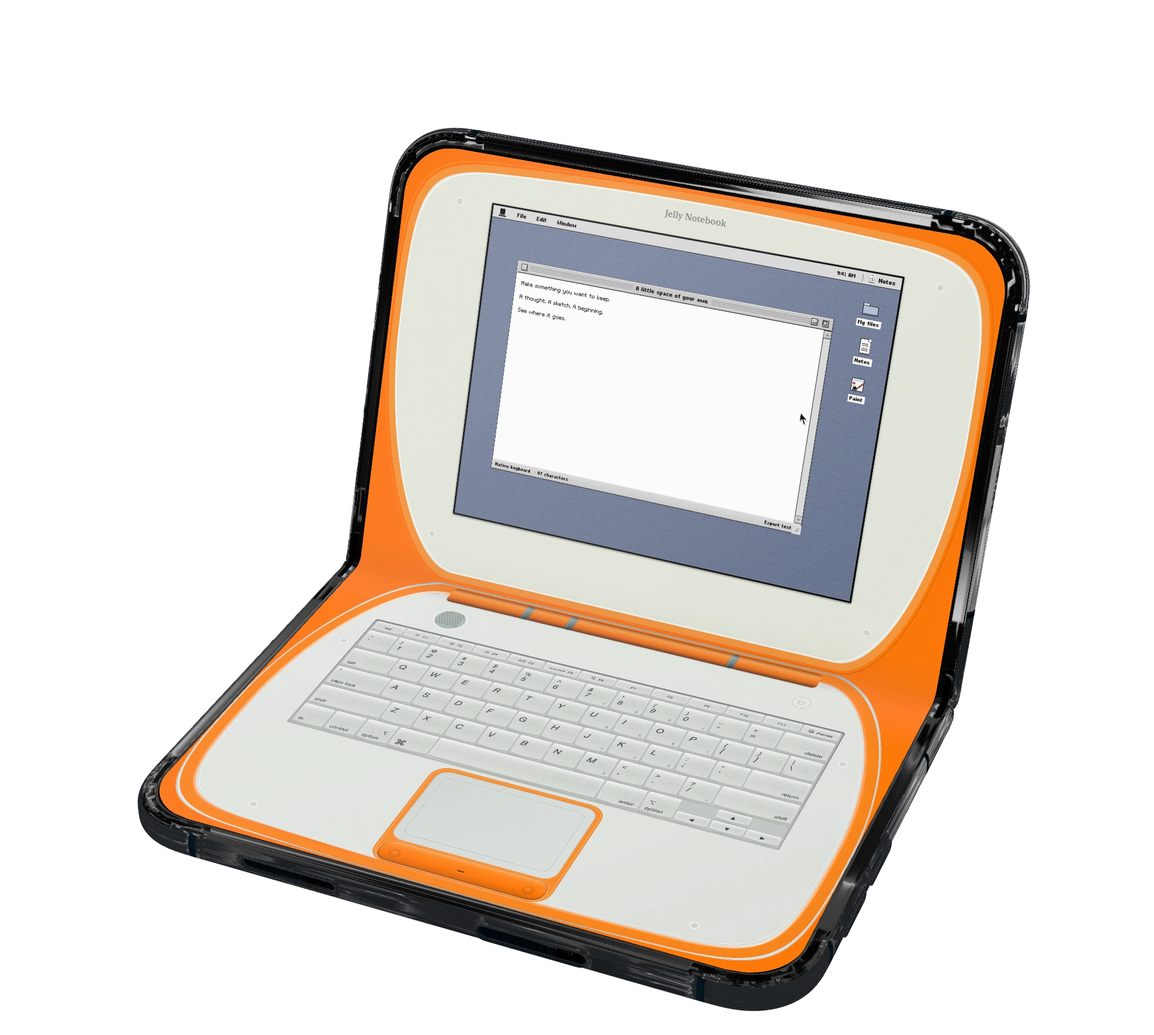
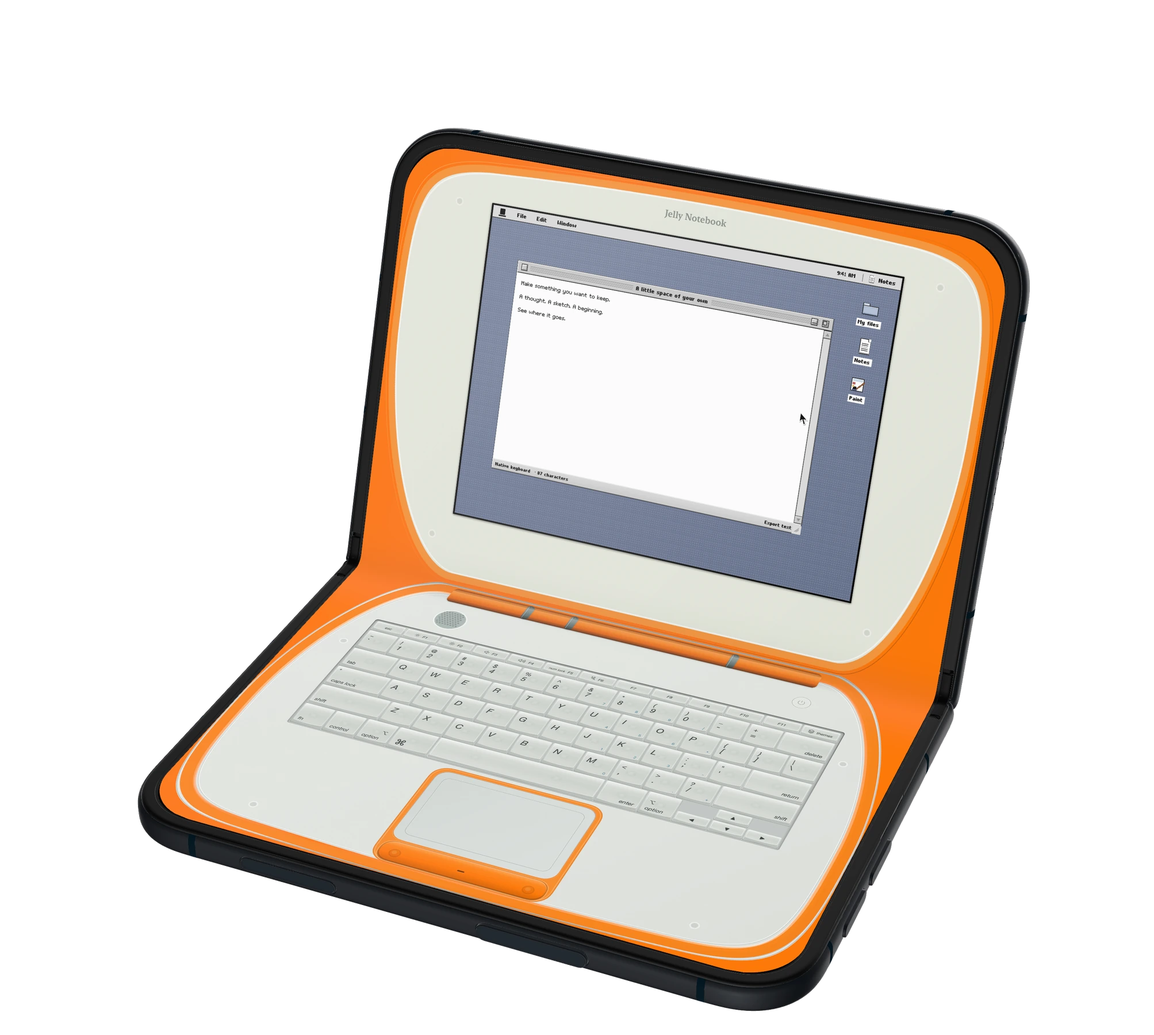
Smooth Duo render edges and add silver finish
Correct independent mesh position, normal and UV indexes; refine triangles around the bend and soften shell reflections. Add black/silver controls beside the hero footer label, front and rear assets for both finishes, a brief five-look introduction, and a shorter regular cycle.

diff --git a/index.html b/index.html
@@ -8,7 +8,7 @@
 <header class="site-header"><div class="wrap nav-inner"><a class="brand" href="./" aria-label="lil laptop home"><span class="nav-icon" aria-hidden="true"><span class="app-icon-shell"><img src="icon-180.png" width="28" height="28" alt="" draggable="false"></span></span><span class="wordmark">lil laptop</span></a><nav aria-label="Main"><a href="#collection">the laptops</a><a href="#customize">make it yours</a><div class="nav-download"><a class="app-store-badge" href="https://apps.apple.com/us/app/lil-laptop/id6824160964" aria-label="Download lil laptop on the App Store"><svg aria-hidden="true" focusable="false" xmlns="http://www.w3.org/2000/svg" width="119.66407" height="40" viewBox="0 0 119.66407 40"><g><g><g><path d="M110.13477,0H9.53468c-.3667,0-.729,0-1.09473.002-.30615.002-.60986.00781-.91895.0127A13.21476,13.21476,0,0,0,5.5171.19141a6.66509,6.66509,0,0,0-1.90088.627A6.43779,6.43779,0,0,0,1.99757,1.99707,6.25844,6.25844,0,0,0,.81935,3.61816a6.60119,6.60119,0,0,0-.625,1.90332,12.993,12.993,0,0,0-.1792,2.002C.00587,7.83008.00489,8.1377,0,8.44434V31.5586c.00489.3105.00587.6113.01515.9219a12.99232,12.99232,0,0,0,.1792,2.0019,6.58756,6.58756,0,0,0,.625,1.9043A6.20778,6.20778,0,0,0,1.99757,38.001a6.27445,6.27445,0,0,0,1.61865,1.1787,6.70082,6.70082,0,0,0,1.90088.6308,13.45514,13.45514,0,0,0,2.0039.1768c.30909.0068.6128.0107.91895.0107C8.80567,40,9.168,40,9.53468,40H110.13477c.3594,0,.7246,0,1.084-.002.3047,0,.6172-.0039.9219-.0107a13.279,13.279,0,0,0,2-.1768,6.80432,6.80432,0,0,0,1.9082-.6308,6.27742,6.27742,0,0,0,1.6172-1.1787,6.39482,6.39482,0,0,0,1.1816-1.6143,6.60413,6.60413,0,0,0,.6191-1.9043,13.50643,13.50643,0,0,0,.1856-2.0019c.0039-.3106.0039-.6114.0039-.9219.0078-.3633.0078-.7246.0078-1.0938V9.53613c0-.36621,0-.72949-.0078-1.09179,0-.30664,0-.61426-.0039-.9209a13.5071,13.5071,0,0,0-.1856-2.002,6.6177,6.6177,0,0,0-.6191-1.90332,6.46619,6.46619,0,0,0-2.7988-2.7998,6.76754,6.76754,0,0,0-1.9082-.627,13.04394,13.04394,0,0,0-2-.17676c-.3047-.00488-.6172-.01074-.9219-.01269-.3594-.002-.7246-.002-1.084-.002Z" style="fill: #a6a6a6"/><path d="M8.44483,39.125c-.30468,0-.602-.0039-.90429-.0107a12.68714,12.68714,0,0,1-1.86914-.1631,5.88381,5.88381,0,0,1-1.65674-.5479,5.40573,5.40573,0,0,1-1.397-1.0166,5.32082,5.32082,0,0,1-1.02051-1.3965,5.72186,5.72186,0,0,1-.543-1.6572,12.41351,12.41351,0,0,1-.1665-1.875c-.00634-.2109-.01464-.9131-.01464-.9131V8.44434S.88185,7.75293.8877,7.5498a12.37039,12.37039,0,0,1,.16553-1.87207,5.7555,5.7555,0,0,1,.54346-1.6621A5.37349,5.37349,0,0,1,2.61183,2.61768,5.56543,5.56543,0,0,1,4.01417,1.59521a5.82309,5.82309,0,0,1,1.65332-.54394A12.58589,12.58589,0,0,1,7.543.88721L8.44532.875H111.21387l.9131.0127a12.38493,12.38493,0,0,1,1.8584.16259,5.93833,5.93833,0,0,1,1.6709.54785,5.59374,5.59374,0,0,1,2.415,2.41993,5.76267,5.76267,0,0,1,.5352,1.64892,12.995,12.995,0,0,1,.1738,1.88721c.0029.2832.0029.5874.0029.89014.0079.375.0079.73193.0079,1.09179V30.4648c0,.3633,0,.7178-.0079,1.0752,0,.3252,0,.6231-.0039.9297a12.73126,12.73126,0,0,1-.1709,1.8535,5.739,5.739,0,0,1-.54,1.67,5.48029,5.48029,0,0,1-1.0156,1.3857,5.4129,5.4129,0,0,1-1.3994,1.0225,5.86168,5.86168,0,0,1-1.668.5498,12.54218,12.54218,0,0,1-1.8692.1631c-.2929.0068-.5996.0107-.8974.0107l-1.084.002Z"/></g><g data-name="&lt;Group&gt;"><g data-name="&lt;Group&gt;"><g data-name="&lt;Group&gt;"><path data-name="&lt;Path&gt;" d="M24.76888,20.30068a4.94881,4.94881,0,0,1,2.35656-4.15206,5.06566,5.06566,0,0,0-3.99116-2.15768c-1.67924-.17626-3.30719,1.00483-4.1629,1.00483-.87227,0-2.18977-.98733-3.6085-.95814a5.31529,5.31529,0,0,0-4.47292,2.72787c-1.934,3.34842-.49141,8.26947,1.3612,10.97608.9269,1.32535,2.01018,2.8058,3.42763,2.7533,1.38706-.05753,1.9051-.88448,3.5794-.88448,1.65876,0,2.14479.88448,3.591.8511,1.48838-.02416,2.42613-1.33124,3.32051-2.66914a10.962,10.962,0,0,0,1.51842-3.09251A4.78205,4.78205,0,0,1,24.76888,20.30068Z" style="fill: #fff"/><path data-name="&lt;Path&gt;" d="M22.03725,12.21089a4.87248,4.87248,0,0,0,1.11452-3.49062,4.95746,4.95746,0,0,0-3.20758,1.65961,4.63634,4.63634,0,0,0-1.14371,3.36139A4.09905,4.09905,0,0,0,22.03725,12.21089Z" style="fill: #fff"/></g></g><g><path d="M42.30227,27.13965h-4.7334l-1.13672,3.35645H34.42727l4.4834-12.418h2.083l4.4834,12.418H43.438ZM38.0591,25.59082h3.752l-1.84961-5.44727h-.05176Z" style="fill: #fff"/><path d="M55.15969,25.96973c0,2.81348-1.50586,4.62109-3.77832,4.62109a3.0693,3.0693,0,0,1-2.84863-1.584h-.043v4.48438h-1.8584V21.44238H48.4302v1.50586h.03418a3.21162,3.21162,0,0,1,2.88281-1.60059C53.645,21.34766,55.15969,23.16406,55.15969,25.96973Zm-1.91016,0c0-1.833-.94727-3.03809-2.39258-3.03809-1.41992,0-2.375,1.23047-2.375,3.03809,0,1.82422.95508,3.0459,2.375,3.0459C52.30227,29.01563,53.24953,27.81934,53.24953,25.96973Z" style="fill: #fff"/><path d="M65.12453,25.96973c0,2.81348-1.50586,4.62109-3.77832,4.62109a3.0693,3.0693,0,0,1-2.84863-1.584h-.043v4.48438h-1.8584V21.44238H58.395v1.50586h.03418A3.21162,3.21162,0,0,1,61.312,21.34766C63.60988,21.34766,65.12453,23.16406,65.12453,25.96973Zm-1.91016,0c0-1.833-.94727-3.03809-2.39258-3.03809-1.41992,0-2.375,1.23047-2.375,3.03809,0,1.82422.95508,3.0459,2.375,3.0459C62.26711,29.01563,63.21438,27.81934,63.21438,25.96973Z" style="fill: #fff"/><path d="M71.71047,27.03613c.1377,1.23145,1.334,2.04,2.96875,2.04,1.56641,0,2.69336-.80859,2.69336-1.91895,0-.96387-.67969-1.541-2.28906-1.93652l-1.60937-.3877c-2.28027-.55078-3.33887-1.61719-3.33887-3.34766,0-2.14258,1.86719-3.61426,4.51855-3.61426,2.624,0,4.42285,1.47168,4.4834,3.61426h-1.876c-.1123-1.23926-1.13672-1.9873-2.63379-1.9873s-2.52148.75684-2.52148,1.8584c0,.87793.6543,1.39453,2.25488,1.79l1.36816.33594c2.54785.60254,3.60645,1.626,3.60645,3.44238,0,2.32324-1.85059,3.77832-4.79395,3.77832-2.75391,0-4.61328-1.4209-4.7334-3.667Z" style="fill: #fff"/><path d="M83.34621,19.2998v2.14258h1.72168v1.47168H83.34621v4.99121c0,.77539.34473,1.13672,1.10156,1.13672a5.80752,5.80752,0,0,0,.61133-.043v1.46289a5.10351,5.10351,0,0,1-1.03223.08594c-1.833,0-2.54785-.68848-2.54785-2.44434V22.91406H80.16262V21.44238H81.479V19.2998Z" style="fill: #fff"/><path d="M86.065,25.96973c0-2.84863,1.67773-4.63867,4.29395-4.63867,2.625,0,4.29492,1.79,4.29492,4.63867,0,2.85645-1.66113,4.63867-4.29492,4.63867C87.72609,30.6084,86.065,28.82617,86.065,25.96973Zm6.69531,0c0-1.9541-.89551-3.10742-2.40137-3.10742s-2.40039,1.16211-2.40039,3.10742c0,1.96191.89453,3.10645,2.40039,3.10645S92.76027,27.93164,92.76027,25.96973Z" style="fill: #fff"/><path d="M96.18606,21.44238h1.77246v1.541h.043a2.1594,2.1594,0,0,1,2.17773-1.63574,2.86616,2.86616,0,0,1,.63672.06934v1.73828a2.59794,2.59794,0,0,0-.835-.1123,1.87264,1.87264,0,0,0-1.93652,2.083v5.37012h-1.8584Z" style="fill: #fff"/><path d="M109.3843,27.83691c-.25,1.64355-1.85059,2.77148-3.89844,2.77148-2.63379,0-4.26855-1.76465-4.26855-4.5957,0-2.83984,1.64355-4.68164,4.19043-4.68164,2.50488,0,4.08008,1.7207,4.08008,4.46582v.63672h-6.39453v.1123a2.358,2.358,0,0,0,2.43555,2.56445,2.04834,2.04834,0,0,0,2.09082-1.27344Zm-6.28223-2.70215h4.52637a2.1773,2.1773,0,0,0-2.2207-2.29785A2.292,2.292,0,0,0,103.10207,25.13477Z" style="fill: #fff"/></g></g></g><g data-name="&lt;Group&gt;"><g><path d="M37.82619,8.731a2.63964,2.63964,0,0,1,2.80762,2.96484c0,1.90625-1.03027,3.002-2.80762,3.002H35.67092V8.731Zm-1.22852,5.123h1.125a1.87588,1.87588,0,0,0,1.96777-2.146,1.881,1.881,0,0,0-1.96777-2.13379h-1.125Z" style="fill: #fff"/><path d="M41.68068,12.44434a2.13323,2.13323,0,1,1,4.24707,0,2.13358,2.13358,0,1,1-4.24707,0Zm3.333,0c0-.97607-.43848-1.54687-1.208-1.54687-.77246,0-1.207.5708-1.207,1.54688,0,.98389.43457,1.55029,1.207,1.55029C44.57522,13.99463,45.01369,13.42432,45.01369,12.44434Z" style="fill: #fff"/><path d="M51.57326,14.69775h-.92187l-.93066-3.31641h-.07031l-.92676,3.31641h-.91309l-1.24121-4.50293h.90137l.80664,3.436h.06641l.92578-3.436h.85254l.92578,3.436h.07031l.80273-3.436h.88867Z" style="fill: #fff"/><path d="M53.85354,10.19482H54.709v.71533h.06641a1.348,1.348,0,0,1,1.34375-.80225,1.46456,1.46456,0,0,1,1.55859,1.6748v2.915h-.88867V12.00586c0-.72363-.31445-1.0835-.97168-1.0835a1.03294,1.03294,0,0,0-1.0752,1.14111v2.63428h-.88867Z" style="fill: #fff"/><path d="M59.09377,8.437h.88867v6.26074h-.88867Z" style="fill: #fff"/><path d="M61.21779,12.44434a2.13346,2.13346,0,1,1,4.24756,0,2.1338,2.1338,0,1,1-4.24756,0Zm3.333,0c0-.97607-.43848-1.54687-1.208-1.54687-.77246,0-1.207.5708-1.207,1.54688,0,.98389.43457,1.55029,1.207,1.55029C64.11232,13.99463,64.5508,13.42432,64.5508,12.44434Z" style="fill: #fff"/><path d="M66.4009,13.42432c0-.81055.60352-1.27783,1.6748-1.34424l1.21973-.07031v-.38867c0-.47559-.31445-.74414-.92187-.74414-.49609,0-.83984.18213-.93848.50049h-.86035c.09082-.77344.81836-1.26953,1.83984-1.26953,1.12891,0,1.76563.562,1.76563,1.51318v3.07666h-.85547v-.63281h-.07031a1.515,1.515,0,0,1-1.35254.707A1.36026,1.36026,0,0,1,66.4009,13.42432Zm2.89453-.38477v-.37646l-1.09961.07031c-.62012.0415-.90137.25244-.90137.64941,0,.40527.35156.64111.835.64111A1.0615,1.0615,0,0,0,69.29543,13.03955Z" style="fill: #fff"/><path d="M71.34816,12.44434c0-1.42285.73145-2.32422,1.86914-2.32422a1.484,1.484,0,0,1,1.38086.79h.06641V8.437h.88867v6.26074h-.85156v-.71143h-.07031a1.56284,1.56284,0,0,1-1.41406.78564C72.0718,14.772,71.34816,13.87061,71.34816,12.44434Zm.918,0c0,.95508.4502,1.52979,1.20313,1.52979.749,0,1.21191-.583,1.21191-1.52588,0-.93848-.46777-1.52979-1.21191-1.52979C72.72121,10.91846,72.26613,11.49707,72.26613,12.44434Z" style="fill: #fff"/><path d="M79.23,12.44434a2.13323,2.13323,0,1,1,4.24707,0,2.13358,2.13358,0,1,1-4.24707,0Zm3.333,0c0-.97607-.43848-1.54687-1.208-1.54687-.77246,0-1.207.5708-1.207,1.54688,0,.98389.43457,1.55029,1.207,1.55029C82.12453,13.99463,82.563,13.42432,82.563,12.44434Z" style="fill: #fff"/><path d="M84.66945,10.19482h.85547v.71533h.06641a1.348,1.348,0,0,1,1.34375-.80225,1.46456,1.46456,0,0,1,1.55859,1.6748v2.915H87.605V12.00586c0-.72363-.31445-1.0835-.97168-1.0835a1.03294,1.03294,0,0,0-1.0752,1.14111v2.63428h-.88867Z" style="fill: #fff"/><path d="M93.51516,9.07373v1.1416h.97559v.74854h-.97559V13.2793c0,.47168.19434.67822.63672.67822a2.96657,2.96657,0,0,0,.33887-.02051v.74023a2.9155,2.9155,0,0,1-.4834.04541c-.98828,0-1.38184-.34766-1.38184-1.21582v-2.543h-.71484v-.74854h.71484V9.07373Z" style="fill: #fff"/><path d="M95.70461,8.437h.88086v2.48145h.07031a1.3856,1.3856,0,0,1,1.373-.80664,1.48339,1.48339,0,0,1,1.55078,1.67871v2.90723H98.69v-2.688c0-.71924-.335-1.0835-.96289-1.0835a1.05194,1.05194,0,0,0-1.13379,1.1416v2.62988h-.88867Z" style="fill: #fff"/><path d="M104.76125,13.48193a1.828,1.828,0,0,1-1.95117,1.30273A2.04531,2.04531,0,0,1,100.73,12.46045a2.07685,2.07685,0,0,1,2.07617-2.35254c1.25293,0,2.00879.856,2.00879,2.27V12.688h-3.17969v.0498a1.1902,1.1902,0,0,0,1.19922,1.29,1.07934,1.07934,0,0,0,1.07129-.5459Zm-3.126-1.45117h2.27441a1.08647,1.08647,0,0,0-1.1084-1.1665A1.15162,1.15162,0,0,0,101.63527,12.03076Z" style="fill: #fff"/></g></g></g></svg></a></div></nav></div></header>
 <main id="main">
 <section class="hero"><div class="wrap hero-grid"><div class="hero-copy"><span class="hero-app-icon app-icon-shell"><img src="icon-180.png" width="84" height="84" alt="lil laptop app icon" draggable="false"></span><h1>old soul.<br><em>new screen.</em></h1><p class="hero-intro">Your phone, with a whole new alter ego. Turn your Duo into a tiny computer for little thoughts, creative detours, and a desktop that feels like you.</p><div class="hero-actions"><a class="button button-dark" href="#watch">watch a lil film <span aria-hidden="true">▶</span></a><a class="text-link" href="#customize">make it yours <span aria-hidden="true">↓</span></a></div><p class="hero-note">No account. No ads. Just your own little world.</p></div>
-<div class="hero-art"><div class="hero-orbit" aria-hidden="true"></div><div class="hero-orbit second" aria-hidden="true"></div><div class="hero-glow" aria-hidden="true"></div><div class="hero-float"><div class="tilt"><button class="render-surface hero-device-button" type="button" id="hero-device-button" aria-label="Spin to see the back of the Blueberry Jelly Notebook" aria-pressed="false" aria-describedby="hero-interaction-hint" data-side="open"><img class="hero-device" src="hero-blue-open.webp" width="1100" height="1089" alt="Blueberry Jelly Notebook on iPhone Duo in the angled open pose, with a colour-filled interior surround."><svg class="hero-lighting" viewBox="0 0 1100 1089" aria-hidden="true"><defs><linearGradient id="hero-screen-reflection" x1="0" y1="0" x2="1" y2="1"><stop stop-color="#fff" stop-opacity=".12"/><stop offset=".55" stop-color="#fff" stop-opacity="0"/><stop offset="1" stop-color="#11182d" stop-opacity=".1"/></linearGradient><linearGradient id="hero-hinge-shadow" x1="0" y1="0" x2="0" y2="1"><stop stop-color="#0c1422" stop-opacity=".03"/><stop offset=".55" stop-color="#0c1422" stop-opacity=".16"/><stop offset="1" stop-color="#fff" stop-opacity=".04"/></linearGradient></defs><polygon points="431.99,126.77 932.18,218.74 872.62,582.56 387.93,473.47" fill="url(#hero-screen-reflection)"/><polygon points="275.93,522.84 985.09,688.68 976.33,715.56 265.07,546.99" fill="url(#hero-hinge-shadow)"/></svg><svg class="hero-deck-stickers" viewBox="0 0 1100 1089" aria-hidden="true"><image data-deck-sticker="0" href="sticker-circuit-club-06.webp" width="100" height="100" transform="matrix(0.6137,0.16134,-0.33299,0.38411,199.375,749.6)"/><image data-deck-sticker="1" href="sticker-circuit-club-03.webp" width="100" height="100" transform="matrix(0.64476,0.17021,-0.25263,0.40521,657.373,879.663)"/><image data-deck-sticker="2" href="sticker-bow.webp" width="100" height="100" transform="matrix(0.51514,0.13161,-0.18903,0.31266,735.29,823.997)"/></svg></button></div></div><div class="hero-sticker-cloud" aria-hidden="true"><span class="cloud-sticker cloud-sticker-0" data-cloud-sticker="0"><img src="sticker-bow.webp" alt="" width="120" height="120"></span><span class="cloud-sticker cloud-sticker-1" data-cloud-sticker="1"><img src="sticker-circuit-club-03.webp" alt="" width="120" height="120"></span><span class="cloud-sticker cloud-sticker-2" data-cloud-sticker="2"><img src="sticker-circuit-club-07.webp" alt="" width="120" height="120"></span><span class="cloud-sticker cloud-sticker-3" data-cloud-sticker="3"><img src="sticker-circuit-club-08.webp" alt="" width="120" height="120"></span><span class="cloud-sticker cloud-sticker-4" data-cloud-sticker="4"><img src="sticker-flower.webp" alt="" width="120" height="120"></span><span class="cloud-sticker cloud-sticker-5" data-cloud-sticker="5"><img src="sticker-circuit-club-02.webp" alt="" width="120" height="120"></span></div><div class="hero-render-caption"><span id="hero-model-name">Jelly Notebook / Blueberry</span></div><p class="hero-art-note" id="hero-interaction-hint">click to see the other side ↻ <span class="hover-hint">hover to keep this one.</span></p></div></div><div class="hero-foot wrap"><span class="hero-foot-caption">MADE FOR IPHONE DUO</span><span class="hero-foot-star" aria-hidden="true">✳</span></div></section>
+<div class="hero-art"><div class="hero-orbit" aria-hidden="true"></div><div class="hero-orbit second" aria-hidden="true"></div><div class="hero-glow" aria-hidden="true"></div><div class="hero-float"><div class="tilt"><button class="render-surface hero-device-button" type="button" id="hero-device-button" aria-label="Spin to see the back of the Blueberry Jelly Notebook" aria-pressed="false" aria-describedby="hero-interaction-hint" data-side="open"><img class="hero-device" src="hero-blue-open.webp" width="1100" height="1089" alt="Blueberry Jelly Notebook on iPhone Duo in the angled open pose, with a colour-filled interior surround."><svg class="hero-lighting" viewBox="0 0 1100 1089" aria-hidden="true"><defs><linearGradient id="hero-screen-reflection" x1="0" y1="0" x2="1" y2="1"><stop stop-color="#fff" stop-opacity=".12"/><stop offset=".55" stop-color="#fff" stop-opacity="0"/><stop offset="1" stop-color="#11182d" stop-opacity=".1"/></linearGradient><linearGradient id="hero-hinge-shadow" x1="0" y1="0" x2="0" y2="1"><stop stop-color="#0c1422" stop-opacity=".03"/><stop offset=".55" stop-color="#0c1422" stop-opacity=".16"/><stop offset="1" stop-color="#fff" stop-opacity=".04"/></linearGradient></defs><polygon points="431.99,126.77 932.18,218.74 872.62,582.56 387.93,473.47" fill="url(#hero-screen-reflection)"/><polygon points="275.93,522.84 985.09,688.68 976.33,715.56 265.07,546.99" fill="url(#hero-hinge-shadow)"/></svg><svg class="hero-deck-stickers" viewBox="0 0 1100 1089" aria-hidden="true"><image data-deck-sticker="0" href="sticker-circuit-club-06.webp" width="100" height="100" transform="matrix(0.6137,0.16134,-0.33299,0.38411,199.375,749.6)"/><image data-deck-sticker="1" href="sticker-circuit-club-03.webp" width="100" height="100" transform="matrix(0.64476,0.17021,-0.25263,0.40521,657.373,879.663)"/><image data-deck-sticker="2" href="sticker-bow.webp" width="100" height="100" transform="matrix(0.51514,0.13161,-0.18903,0.31266,735.29,823.997)"/></svg></button></div></div><div class="hero-sticker-cloud" aria-hidden="true"><span class="cloud-sticker cloud-sticker-0" data-cloud-sticker="0"><img src="sticker-bow.webp" alt="" width="120" height="120"></span><span class="cloud-sticker cloud-sticker-1" data-cloud-sticker="1"><img src="sticker-circuit-club-03.webp" alt="" width="120" height="120"></span><span class="cloud-sticker cloud-sticker-2" data-cloud-sticker="2"><img src="sticker-circuit-club-07.webp" alt="" width="120" height="120"></span><span class="cloud-sticker cloud-sticker-3" data-cloud-sticker="3"><img src="sticker-circuit-club-08.webp" alt="" width="120" height="120"></span><span class="cloud-sticker cloud-sticker-4" data-cloud-sticker="4"><img src="sticker-flower.webp" alt="" width="120" height="120"></span><span class="cloud-sticker cloud-sticker-5" data-cloud-sticker="5"><img src="sticker-circuit-club-02.webp" alt="" width="120" height="120"></span></div><div class="hero-render-caption"><span id="hero-model-name">Jelly Notebook / Blueberry</span></div><p class="hero-art-note" id="hero-interaction-hint">click to see the other side ↻ <span class="hover-hint">hover to keep this one.</span></p></div></div><div class="hero-foot wrap"><div class="hero-foot-caption"><span>MADE FOR IPHONE DUO</span><div class="duo-finishes" role="group" aria-label="iPhone Duo device finish"><button type="button" data-duo-finish="black" aria-pressed="true" aria-label="Black iPhone Duo" title="Black"><span class="finish-dot finish-black"></span></button><button type="button" data-duo-finish="silver" aria-pressed="false" aria-label="Silver iPhone Duo" title="Silver"><span class="finish-dot finish-silver"></span></button></div></div><span class="hero-foot-star" aria-hidden="true">✳</span></div></section>
 
 <section class="desktop-section section-space" id="desktops"><div class="wrap desktop-grid"><div class="desktop-copy"><p class="eyebrow">SAME LITTLE WORLD. DIFFERENT ENERGY.</p><h2>Oh hello,<br><em>again.</em></h2><p>The outside doesn't have to match the inside. Mix retro desktops with any laptop, from monochrome charm to candy-coloured nostalgia.</p><p>Your notes, doodles and chosen music come with you.</p><div class="desktop-choices js-only" role="group" aria-label="Desktop interface"><button type="button" data-os="system7" aria-pressed="false">Monochrome</button><button type="button" data-os="macos86" aria-pressed="false">Platinum</button><button type="button" data-os="aqua101" aria-pressed="true">Aqua</button><button type="button" data-os="tiger104" aria-pressed="false">Brushed</button><button type="button" data-os="snow106" aria-pressed="false">Snow</button><button type="button" data-os="yosemite1010" aria-pressed="false">Flat</button><button type="button" data-os="sonoma14" aria-pressed="false">Modern</button></div></div><div class="desktop-showcase reveal"><div class="desktop-shell"><div class="desktop-window-bar"><span>● ● ●</span><span id="desktop-label">Aqua</span><span aria-hidden="true">↗</span></div><img id="desktop-image" src="desktop-aqua101.webp" width="760" height="507" loading="lazy" alt="Aqua desktop interface preview from lil laptop."></div><span class="desktop-spark" aria-hidden="true">✦</span><p>same little world. different energy.</p></div></div></section>
 <section class="collection section-space" id="collection"><div class="wrap"><div class="section-heading reveal"><div><p class="eyebrow">THE COLLECTION / A FEW VERY GOOD ERAS</p><h2>Which lil laptop<br><em>feels like you?</em></h2></div><p>A crush on the classics? A thing for jelly colours? There's a little laptop with your name on it.</p></div><div class="collection-controls"><p><span id="collection-caption">Pick your alter ego.</span></p><div class="side-toggle js-only" role="group" aria-label="Laptop preview side"><button type="button" data-side="front" aria-pressed="true">open <span aria-hidden="true">↗</span></button><button type="button" data-side="back" aria-pressed="false">flip to lids <span aria-hidden="true">↻</span></button></div><div class="collection-arrows js-only"><button type="button" data-gallery-step="-1" aria-label="Previous laptops">←</button><button type="button" data-gallery-step="1" aria-label="Next laptops">→</button></div></div><noscript><p>Enable JavaScript to turn the laptops around and decorate their lids.</p></noscript><div class="models-grid" tabindex="0" role="group" aria-label="Laptop collection. Scroll horizontally to explore the lil laptops."><article class="model-card" data-model="powerbook170">

diff --git a/site.js b/site.js
@@ -234,6 +234,8 @@ const models = [{"id":"powerbook170","name":"Power Notebook","description":"A tr
   const deckLayouts = [[[1.33257, 0.15715, -0.41974, 0.83388, 150.048, 747.356]], [[1.21418, 0.55567, -0.85289, 0.74353, 678.793, 857.279]], [[1.18913, 0.06161, -0.23191, 0.72726, 168.432, 723.095], [0.96033, 0.43762, -0.83238, 0.6305, 170.907, 787.325]], [[1.15795, 0.48914, -0.75404, 0.70528, 681.511, 838.569], [1.23453, 0.06965, -0.08422, 0.82279, 619.632, 942.954]], [[1.32041, 0.18609, -0.47164, 0.83003, 140.348, 750.682], [1.12384, 0.55845, -0.85187, 0.69379, 670.154, 881.828]], [[1.09999, 0.45313, -0.88951, 0.70588, 172.98, 743.15], [1.27596, 0.09748, -0.12626, 0.81982, 639.265, 860.14], [0.95171, 0.45132, -0.67307, 0.60288, 663.977, 934.311]]];
   const deckSlots=[...document.querySelectorAll('[data-deck-sticker]')];
   const cloudSlots=[...document.querySelectorAll('[data-cloud-sticker] img')];
+  let duoFinish='black';
+  let introActive=false,introTimer=null,introToken=0;
   let lookIndex=0, heroRear=false, lastDeckLayout=-1, lastCloudSlot=-1;
   let heroTimer=null, heroMotion=null, heroHover=false, heroFocus=false, transitionID=0;
   let cloudTimer=null;
@@ -268,18 +270,38 @@ const models = [{"id":"powerbook170","name":"Power Notebook","description":"A tr
     image.animate([{opacity:0,scale:'.65',rotate:'12deg'},{opacity:1,scale:'1.12',rotate:'-3deg',offset:.65},{opacity:1,scale:'1',rotate:'0deg'}],{duration:380,easing:'ease-out'});
     scheduleCloud();
   }
-  const paused = () => reduced.matches || document.hidden || heroHover || heroFocus || heroRear;
+  const blocked = () => reduced.matches || document.hidden || heroHover || heroFocus || heroRear;
+  const paused = () => blocked() || introActive;
+  function stopIntro(){introToken++;introActive=false;clearTimeout(introTimer);introTimer=null;heroButton.dataset.intro='complete';}
+  function heroSource(look,rear){return duoFinish==='silver'?`hero-${look.id}-silver-${rear?'rear':'open'}.webp`:(rear?look.rear:look.open);}
+  function startIntro(){
+    if(blocked()){scheduleHero();return;}
+    introActive=true;heroButton.dataset.intro='loading';const token=++introToken;
+    Promise.allSettled(looks.map(look=>{const image=new Image();image.src=heroSource(look,false);return image.decode();})).then(()=>{
+      if(token!==introToken)return;
+      if(blocked()){stopIntro();scheduleHero();return;}
+      heroButton.dataset.intro='cycling';let step=0;
+      const next=()=>{
+        if(token!==introToken)return;
+        if(blocked()){stopIntro();scheduleHero();return;}
+        lookIndex=(++step)%looks.length;paintHero();
+        if(step===looks.length){stopIntro();changeDeck();scheduleHero();return;}
+        introTimer=setTimeout(next,150);
+      };
+      introTimer=setTimeout(next,150);
+    });
+  }
   function paintHero() {
-    const look=looks[lookIndex];heroImage.src=heroRear?look.rear:look.open;
-    heroImage.alt=heroRear?`${look.name}, partly open with its back lid facing you on iPhone Duo.`:`${look.name} on iPhone Duo in the angled open pose, with stickers around its trackpad.`;
-    heroLabel.textContent=look.name;heroButton.dataset.look=look.id;
+    const look=looks[lookIndex];heroImage.src=heroSource(look,heroRear);
+    heroImage.alt=heroRear?`${look.name}, partly open with its back lid facing you on ${duoFinish} iPhone Duo.`:`${look.name} on ${duoFinish} iPhone Duo in the angled open pose, with stickers around its trackpad.`;
+    heroLabel.textContent=look.name;heroButton.dataset.look=look.id;heroButton.dataset.finish=duoFinish;
     heroButton.dataset.side=heroRear?'back':'open';
     heroButton.setAttribute('aria-pressed',String(heroRear));
     heroButton.setAttribute('aria-label',heroRear?`Spin to the front of ${look.name}`:`Spin to the back of ${look.name}`);
   }
   function scheduleHero() {
     clearTimeout(heroTimer);heroTimer=null;heroArt.classList.toggle('is-paused',paused());
-    if(!paused()&&!heroMotion)heroTimer=setTimeout(cycleHero,3600);
+    if(!paused()&&!heroMotion)heroTimer=setTimeout(cycleHero,2400);
   }
   function cancelHeroMotion() {
     transitionID++;if(heroMotion){heroMotion.cancel();heroMotion=null;}
@@ -315,11 +337,13 @@ const models = [{"id":"powerbook170","name":"Power Notebook","description":"A tr
   }
   function cycleHero(){heroTimer=null;if(!paused())moveHero(()=>{lookIndex=(lookIndex+1)%looks.length;changeDeck();});}
   function syncHero(){
+    if(introActive)stopIntro();
     // Hover always holds a complete render, never a half-faded bounce frame.
     if(heroMotion&&!heroButton.dataset.spinning){cancelHeroMotion();paintHero();}
     scheduleHero();
   }
   heroButton.addEventListener('click',()=>{
+    stopIntro();
     const next=!heroRear;heroButton.dataset.spinning='true';
     moveHero(()=>{heroRear=next;},true).finally(()=>{delete heroButton.dataset.spinning;scheduleHero();});
   });
@@ -327,10 +351,19 @@ const models = [{"id":"powerbook170","name":"Power Notebook","description":"A tr
   heroArt.addEventListener('pointerleave',()=>{heroHover=false;delete heroButton.dataset.spinning;cancelHeroMotion();heroRear=false;paintHero();scheduleHero();});
   heroButton.addEventListener('focusin',()=>{heroFocus=heroButton.matches(':focus-visible');syncHero();});
   heroButton.addEventListener('focusout',()=>{heroFocus=false;heroRear=false;cancelHeroMotion();paintHero();scheduleHero();});
-  document.addEventListener('visibilitychange',()=>{if(document.hidden){cancelHeroMotion();heroRear=false;paintHero();}scheduleHero();scheduleCloud();});
-  reduced.addEventListener('change',()=>{cancelHeroMotion();heroRear=false;paintHero();scheduleHero();scheduleCloud();});
+  document.addEventListener('visibilitychange',()=>{if(document.hidden){stopIntro();cancelHeroMotion();heroRear=false;paintHero();}scheduleHero();scheduleCloud();});
+  reduced.addEventListener('change',()=>{stopIntro();cancelHeroMotion();heroRear=false;paintHero();scheduleHero();scheduleCloud();});
   looks.forEach(look=>[look.open,look.rear].forEach(src=>{const image=new Image();image.src=src;}));
-  changeDeck();paintHero();scheduleHero();scheduleCloud();
+  document.querySelectorAll('[data-duo-finish]').forEach(button=>button.addEventListener('click',()=>{
+    if(duoFinish===button.dataset.duoFinish)return;
+    stopIntro();cancelHeroMotion();duoFinish=button.dataset.duoFinish;
+    document.querySelectorAll('[data-duo-finish]').forEach(b=>b.setAttribute('aria-pressed',String(b===button)));
+    paintHero();scheduleHero();
+    looks.forEach(look=>[false,true].forEach(rear=>{const image=new Image();image.src=heroSource(look,rear);}));
+  }));
+  // Start loading the alternate finish without delaying the first complete device.
+  looks.forEach(look=>['open','rear'].forEach(side=>{const image=new Image();image.src=`hero-${look.id}-silver-${side}.webp`;}));
+  changeDeck();paintHero();startIntro();scheduleCloud();
 
   const tilt = document.querySelector('.tilt');
   let frame = null;

diff --git a/style.css b/style.css
@@ -84,3 +84,13 @@ body.is-dragging-sticker,body.is-dragging-sticker *{cursor:grabbing!important}
 @media(prefers-reduced-motion:reduce){.site-header .nav-icon{transition:none}}
 
 .site-header .nav-icon .app-icon-shell img{width:100%;height:100%}
+
+.hero-foot .hero-foot-caption{display:flex;align-items:center;justify-content:center;gap:12px}
+.duo-finishes{display:inline-flex;align-items:center;gap:3px}
+.duo-finishes button{display:grid;place-items:center;width:27px;height:27px;border:1px solid transparent;border-radius:50%;padding:4px;background:transparent;transition:transform .2s,border-color .2s}
+.duo-finishes button[aria-pressed=true]{border-color:#14171f99}
+.duo-finishes button:hover{transform:translateY(-2px)}
+.finish-dot{width:16px;height:16px;display:block;border-radius:50%;border:1px solid #14171f55;box-shadow:inset 1px 1px 2px #fff6}
+.finish-black{background:linear-gradient(135deg,#535b65,#10151c)}
+.finish-silver{background:linear-gradient(135deg,#fff,#aab2bc)}
+@media(max-width:600px){.hero-foot .hero-foot-caption{gap:7px}.duo-finishes button{width:25px;height:25px}}
